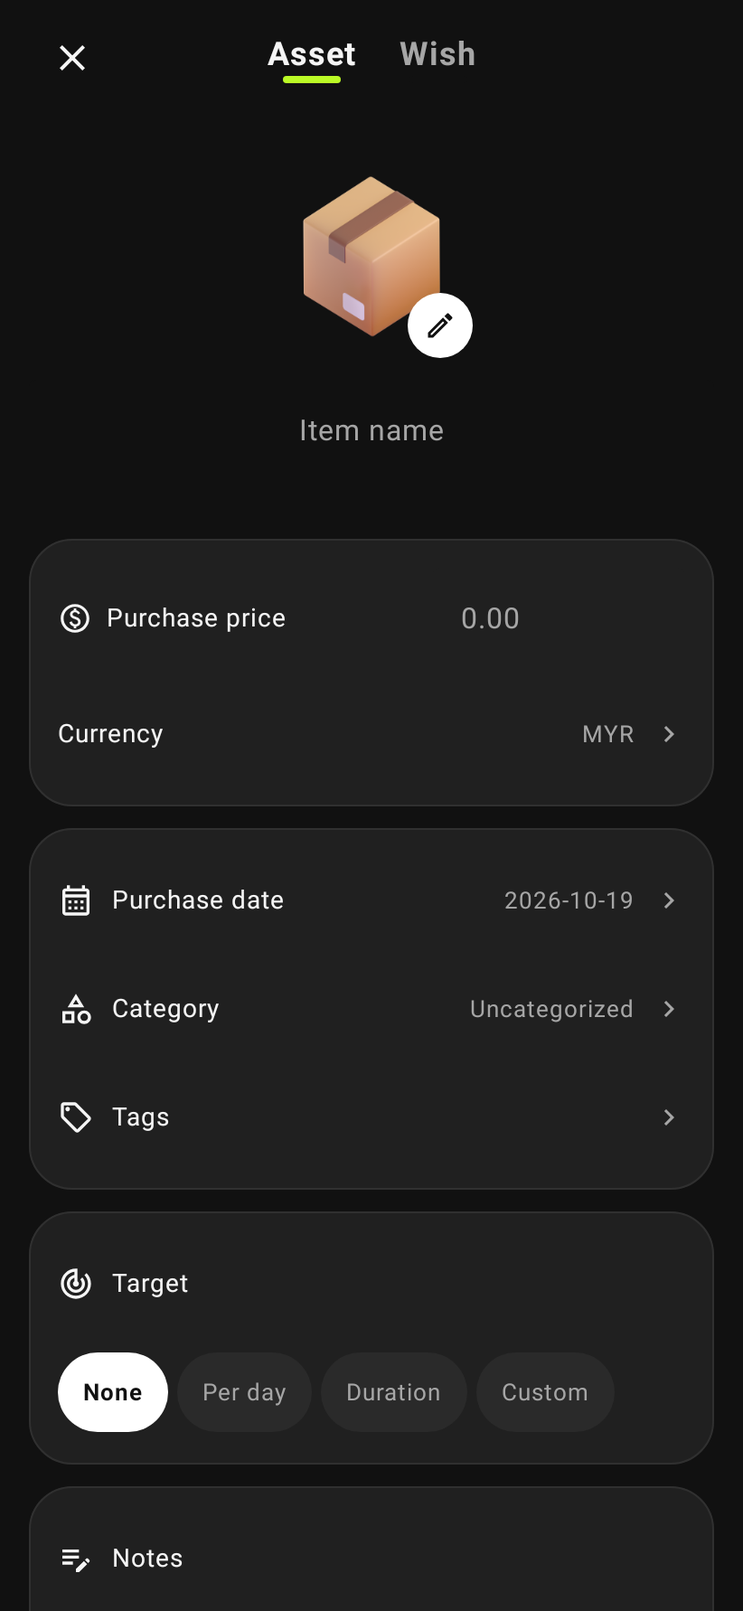
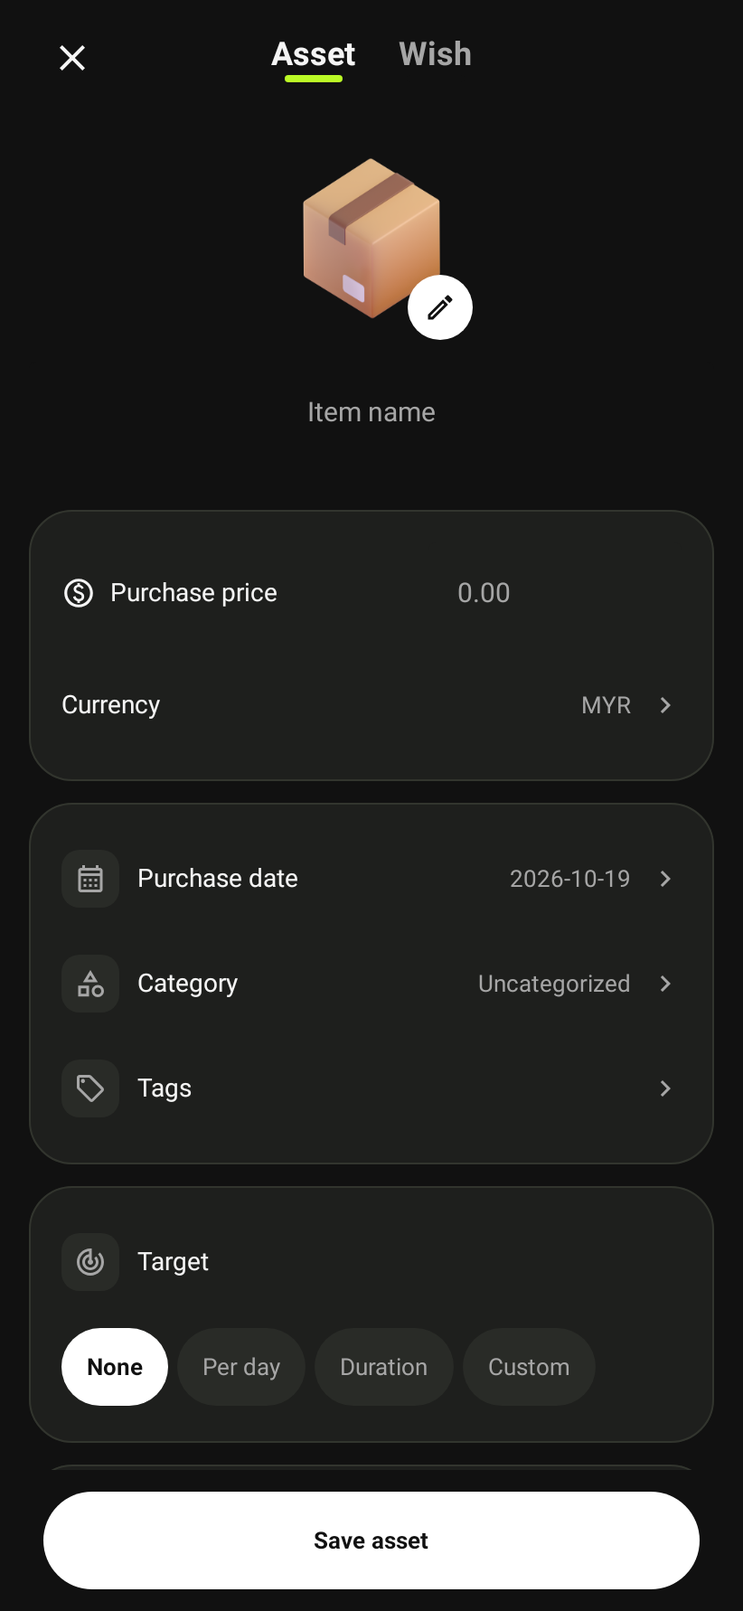
Polish all asset manager screens and pin editor save action

diff --git a/app/src/main/java/app/dayerize/ui/Components.kt b/app/src/main/java/app/dayerize/ui/Components.kt
@@ -29,13 +29,13 @@ val Lime=Color(0xFFBBFA26)
 data class DisplayOptions(val decimals:Int?=null,val grouping:Boolean=true)
 val LocalDisplayOptions=staticCompositionLocalOf { DisplayOptions() }
 @Composable fun DayerizeTheme(dark:Boolean,content:@Composable ()->Unit) {
-    val colors=if(dark) darkColorScheme(primary=Color.White,onPrimary=Color(0xFF111111),primaryContainer=Lime,onPrimaryContainer=Color.Black,secondary=Lime,onSecondary=Color.Black,background=Color(0xFF111111),onBackground=Color(0xFFF5F5F5),surface=Color(0xFF202020),onSurface=Color(0xFFF5F5F5),surfaceVariant=Color(0xFF2A2A2A),onSurfaceVariant=Color(0xFFA6A6A6),outlineVariant=Color(0xFF303030),outline=Color(0xFF666666))
+    val colors=if(dark) darkColorScheme(primary=Color.White,onPrimary=Color(0xFF111111),primaryContainer=Lime,onPrimaryContainer=Color.Black,secondary=Lime,onSecondary=Color.Black,background=Color(0xFF111111),onBackground=Color(0xFFF5F5F5),surface=Color(0xFF1E1F1D),onSurface=Color(0xFFF5F5F5),surfaceVariant=Color(0xFF292B27),onSurfaceVariant=Color(0xFFA6A6A6),outlineVariant=Color(0xFF32352E),outline=Color(0xFF666666))
     else lightColorScheme(primary=Color(0xFF151515),onPrimary=Color.White,primaryContainer=Lime,onPrimaryContainer=Color.Black,secondary=Color(0xFF527300),background=Color(0xFFF4F4F2),surface=Color.White,surfaceVariant=Color(0xFFECECE8),onSurface=Color(0xFF151515),onBackground=Color(0xFF151515),onSurfaceVariant=Color(0xFF64645F),outlineVariant=Color(0xFFE2E2DD))
-    MaterialTheme(colorScheme=colors,typography=Typography(),content=content)
+    MaterialTheme(colorScheme=colors,typography=Typography(bodyLarge=androidx.compose.ui.text.TextStyle(fontSize=15.sp,lineHeight=23.sp),bodyMedium=androidx.compose.ui.text.TextStyle(fontSize=14.sp,lineHeight=21.sp),labelLarge=androidx.compose.ui.text.TextStyle(fontSize=13.sp,fontWeight=FontWeight.Medium,letterSpacing=0.1.sp)),content=content)
 }
 @Composable fun Panel(modifier:Modifier=Modifier,content:@Composable ColumnScope.()->Unit) {
-    Surface(modifier,shape=RoundedCornerShape(24.dp),border=BorderStroke(1.dp,MaterialTheme.colorScheme.outlineVariant),color=MaterialTheme.colorScheme.surface) {
-        Column(Modifier.padding(16.dp),verticalArrangement=Arrangement.spacedBy(12.dp),content=content)
+    Surface(modifier,shape=RoundedCornerShape(24.dp),border=BorderStroke(0.7.dp,MaterialTheme.colorScheme.outlineVariant),color=MaterialTheme.colorScheme.surface) {
+        Column(Modifier.padding(18.dp),verticalArrangement=Arrangement.spacedBy(10.dp),content=content)
     }
 }
 @Composable fun Label(id:Int) { Text(stringResource(id),style=MaterialTheme.typography.labelLarge,color=MaterialTheme.colorScheme.onSurfaceVariant) }
@@ -64,14 +64,14 @@ fun statusLabel(status:Status)=when(status){Status.ACTIVE->R.string.active;Statu
     }
 }
 @Composable fun ScreenHeading(title:String,action:(@Composable ()->Unit)?=null) {
-    Row(Modifier.fillMaxWidth().padding(vertical=12.dp),verticalAlignment=Alignment.CenterVertically) {
-        Text(title,Modifier.weight(1f),fontSize=26.sp,fontWeight=FontWeight.Bold)
+    Row(Modifier.fillMaxWidth().padding(top=12.dp,bottom=4.dp),verticalAlignment=Alignment.CenterVertically) {
+        Text(title,Modifier.weight(1f),fontSize=25.sp,fontWeight=FontWeight.Bold,letterSpacing=(-0.6).sp)
         action?.invoke()
     }
 }
 @Composable fun SettingRow(label:String,value:String="",icon:ImageVector?=null,onClick:(()->Unit)?=null,trailing:(@Composable ()->Unit)?=null) {
-    Row(Modifier.fillMaxWidth().then(if(onClick!=null)Modifier.clickable(onClick=onClick) else Modifier).heightIn(min=48.dp).padding(vertical=8.dp),verticalAlignment=Alignment.CenterVertically,horizontalArrangement=Arrangement.spacedBy(10.dp)) {
-        if(icon!=null)Icon(icon,null,Modifier.size(20.dp))
+    Row(Modifier.fillMaxWidth().clip(RoundedCornerShape(12.dp)).then(if(onClick!=null)Modifier.clickable(onClick=onClick) else Modifier).heightIn(min=48.dp).padding(vertical=8.dp),verticalAlignment=Alignment.CenterVertically,horizontalArrangement=Arrangement.spacedBy(10.dp)) {
+        if(icon!=null)Box(Modifier.size(32.dp).clip(RoundedCornerShape(10.dp)).background(MaterialTheme.colorScheme.surfaceVariant),contentAlignment=Alignment.Center){Icon(icon,null,Modifier.size(18.dp),tint=MaterialTheme.colorScheme.onSurfaceVariant)}
         Text(label,Modifier.weight(1f),fontSize=14.sp)
         if(value.isNotBlank())Text(value,Modifier.widthIn(max=150.dp),color=MaterialTheme.colorScheme.onSurfaceVariant,fontSize=13.sp,maxLines=1,overflow=TextOverflow.Ellipsis)
         if(trailing!=null)trailing() else if(onClick!=null)Icon(Icons.Outlined.ChevronRight,null,Modifier.size(18.dp),tint=MaterialTheme.colorScheme.onSurfaceVariant)
@@ -89,10 +89,10 @@ fun statusLabel(status:Status)=when(status){Status.ACTIVE->R.string.active;Statu
     if(expanded)ModalBottomSheet(onDismissRequest={expanded=false},containerColor=MaterialTheme.colorScheme.surface) {
         Column(Modifier.fillMaxWidth().padding(20.dp).navigationBarsPadding()) {
             Text(stringResource(label),fontSize=22.sp,fontWeight=FontWeight.Bold)
-            OutlinedTextField(query,{query=it},modifier=Modifier.fillMaxWidth().padding(vertical=12.dp),singleLine=true,leadingIcon={Icon(Icons.Outlined.Search,null)})
+            OutlinedTextField(query,{query=it},modifier=Modifier.fillMaxWidth().padding(vertical=12.dp),shape=RoundedCornerShape(18.dp),singleLine=true,leadingIcon={Icon(Icons.Outlined.Search,null)})
             androidx.compose.foundation.lazy.LazyColumn(Modifier.heightIn(max=420.dp)) {
                 items(choices.filter { it.contains(query,true) }.size) { i->val c=choices.filter { it.contains(query,true) }[i]
-                    SettingRow(c,onClick={onSelect(c);expanded=false;query=""},trailing={if(c==value)Icon(Icons.Outlined.Check,null)})
+                    Surface(shape=RoundedCornerShape(14.dp),color=if(c==value)MaterialTheme.colorScheme.surfaceVariant else MaterialTheme.colorScheme.surface){SettingRow(c,onClick={onSelect(c);expanded=false;query=""},trailing={if(c==value)Icon(Icons.Outlined.Check,null,tint=MaterialTheme.colorScheme.secondary)})}
                 }
             }
         }

diff --git a/app/src/main/java/app/dayerize/features/editor/EditorScreen.kt b/app/src/main/java/app/dayerize/features/editor/EditorScreen.kt
@@ -76,7 +76,8 @@ import app.dayerize.images.CutoutProcessor
         busy=true;try { photo=withContext(Dispatchers.IO){val f=File(vm.store.photos,UUID.randomUUID().toString()+".png");f.outputStream().use { require(bitmap.compress(Bitmap.CompressFormat.PNG,100,it)) };f.name};originalPhoto=photo;processedPhoto=null }catch(e:Exception){vm.message.value=R.string.processing_failed}finally{busy=false}
     } }
     BackHandler { discard=true }
-    Column(Modifier.fillMaxSize().verticalScroll(rememberScrollState()).imePadding().padding(horizontal=16.dp),verticalArrangement=Arrangement.spacedBy(12.dp)) {
+    Column(Modifier.fillMaxSize().imePadding()) {
+    Column(Modifier.weight(1f).verticalScroll(rememberScrollState()).padding(horizontal=16.dp),verticalArrangement=Arrangement.spacedBy(12.dp)) {
         Box(Modifier.fillMaxWidth().padding(top=8.dp)) {
             IconButton(onClick={discard=true},modifier=Modifier.align(Alignment.CenterStart)){Icon(Icons.Outlined.Close,stringResource(R.string.back))}
             Row(Modifier.align(Alignment.Center),horizontalArrangement=Arrangement.spacedBy(24.dp)) {
@@ -89,14 +90,14 @@ import app.dayerize.images.CutoutProcessor
             }
         }
         val preview=Asset("preview","preview",name.ifBlank { "Asset" },Money(0,currency),date,icon=icon,photo=photo)
-        Box(Modifier.fillMaxWidth().padding(top=18.dp),contentAlignment=Alignment.Center) {
+        Box(Modifier.fillMaxWidth().padding(top=8.dp),contentAlignment=Alignment.Center) {
             Box(Modifier.size(112.dp)) {
                 AssetArt(preview,Modifier.fillMaxSize().padding(6.dp))
                 FilledIconButton(onClick={sheet="image"},modifier=Modifier.align(Alignment.BottomEnd).size(36.dp)){Icon(Icons.Outlined.Edit,stringResource(R.string.choose_image),Modifier.size(18.dp))}
             }
         }
         TextField(name,{name=it},placeholder={Text(stringResource(R.string.item_name),Modifier.fillMaxWidth(),textAlign=TextAlign.Center)},textStyle=LocalTextStyle.current.copy(textAlign=TextAlign.Center,fontWeight=FontWeight.Bold,fontSize=20.sp),modifier=Modifier.fillMaxWidth().testTag("asset-name"),singleLine=true,colors=TextFieldDefaults.colors(focusedContainerColor=MaterialTheme.colorScheme.background,unfocusedContainerColor=MaterialTheme.colorScheme.background,focusedIndicatorColor=MaterialTheme.colorScheme.background,unfocusedIndicatorColor=MaterialTheme.colorScheme.background))
-        Spacer(Modifier.height(8.dp))
+        Spacer(Modifier.height(2.dp))
         Panel {
             Row(verticalAlignment=Alignment.CenterVertically) {
                 Icon(Icons.Outlined.Paid,null,Modifier.size(19.dp));Text(stringResource(if(wish)R.string.budget else R.string.price),Modifier.weight(1f).padding(start=8.dp),fontSize=14.sp)
@@ -133,7 +134,11 @@ import app.dayerize.images.CutoutProcessor
                 Field(channel,{channel=it},R.string.channel);Field(warranty,{warranty=it},R.string.warranty);Field(serial,{serial=it},R.string.serial)
             }
         }
-        if(error)Text(stringResource(R.string.check_fields),color=MaterialTheme.colorScheme.error)
+        Spacer(Modifier.height(12.dp))
+    }
+    Surface(shadowElevation=8.dp,color=MaterialTheme.colorScheme.background) {
+        Column {
+        if(error)Text(stringResource(R.string.check_fields),Modifier.padding(horizontal=24.dp,vertical=4.dp),color=MaterialTheme.colorScheme.error)
         if(busy)LinearProgressIndicator(Modifier.fillMaxWidth())
         Button(onClick={
             try {
@@ -142,8 +147,9 @@ import app.dayerize.images.CutoutProcessor
                 val a=(existing ?: Asset(UUID.randomUUID().toString(),vm.state.value.config.getValue("workspace"),name,purchase,date)).copy(name=name.trim(),purchase=purchase,purchaseDate=if(wish)vm.today().toString()else date,targetDays=target,category=category.trim(),tags=tags.split(',').map(String::trim).filter(String::isNotEmpty),notes=notes,serial=serial,channel=channel,warranty=warranty,icon=icon,photo=photo,useMode=!wish&&targetMode=="custom"&&useMode,valuation=valuation,manualValue=if(valuation=="manual")Money.parse(value,currency).minor else null,residual=if(valuation=="linear")Money.parse(residual,currency).minor else 0,originalPhoto=originalPhoto,wishlist=wish,targetMode=targetMode)
                 a.validate(vm.today());busy=true;vm.save(a,onError={busy=false;error=true}){busy=false;onDone(a.id)}
             }catch(e:Exception){error=true;busy=false}
-        },enabled=!busy,modifier=Modifier.fillMaxWidth().heightIn(min=54.dp)){Text(stringResource(R.string.save_asset),fontWeight=FontWeight.Bold)}
-        Spacer(Modifier.height(16.dp))
+        },enabled=!busy,modifier=Modifier.fillMaxWidth().padding(horizontal=24.dp,vertical=12.dp).heightIn(min=54.dp)){Text(stringResource(R.string.save_asset),fontWeight=FontWeight.Bold)}
+    }
+    }
     }
     if(picker)IconPicker(onSelect={icon=it;photo=null;originalPhoto=null;processedPhoto=null;picker=false},onDismiss={picker=false})
     if(sheet.isNotBlank())ModalBottomSheet(onDismissRequest={sheet=""},containerColor=MaterialTheme.colorScheme.surface) {

diff --git a/app/src/main/java/app/dayerize/features/collection/CollectionScreen.kt b/app/src/main/java/app/dayerize/features/collection/CollectionScreen.kt
@@ -43,7 +43,7 @@ import java.math.RoundingMode
             total+=cost*rate
         };total
     }.getOrNull() }
-    LazyVerticalGrid(columns=GridCells.Fixed(if(list || wishes)1 else 2),contentPadding=PaddingValues(start=16.dp,end=16.dp,top=4.dp,bottom=110.dp),horizontalArrangement=Arrangement.spacedBy(12.dp),verticalArrangement=Arrangement.spacedBy(14.dp)) {
+    LazyVerticalGrid(columns=GridCells.Fixed(if(list || wishes)1 else 2),contentPadding=PaddingValues(start=16.dp,end=16.dp,top=4.dp,bottom=110.dp),horizontalArrangement=Arrangement.spacedBy(12.dp),verticalArrangement=Arrangement.spacedBy(12.dp)) {
         item(span={GridItemSpan(maxLineSpan)}) { ScreenHeading(if(wishes)stringResource(R.string.wishlist) else "Dayerize") { IconButton(onClick={showSearch=!showSearch}){Icon(Icons.Outlined.Search,stringResource(R.string.search))} } }
         if(showSearch)item(span={GridItemSpan(maxLineSpan)}) { OutlinedTextField(search,{search=it},placeholder={Text(stringResource(R.string.search))},modifier=Modifier.fillMaxWidth(),singleLine=true,shape=RoundedCornerShape(24.dp),leadingIcon={Icon(Icons.Outlined.Search,null)}) }
         item(span={GridItemSpan(maxLineSpan)}) { Panel(Modifier.fillMaxWidth()) {
@@ -99,16 +99,26 @@ import java.math.RoundingMode
                         OutlinedButton(onClick={onPurchase(a)}){Text(stringResource(R.string.purchase_wish),fontSize=12.sp)}
                     }
                 }
+            } else if(list)Surface(shape=RoundedCornerShape(22.dp),color=MaterialTheme.colorScheme.surface,border=BorderStroke(0.7.dp,MaterialTheme.colorScheme.outlineVariant)) {
+                Row(Modifier.fillMaxWidth().combinedClickable(onClick={onOpen(a)},onLongClick={menu=a}).padding(14.dp),verticalAlignment=Alignment.CenterVertically,horizontalArrangement=Arrangement.spacedBy(14.dp)) {
+                    AssetArt(a,Modifier.size(64.dp))
+                    Column(Modifier.weight(1f),verticalArrangement=Arrangement.spacedBy(5.dp)) {
+                        Text(a.name,fontWeight=FontWeight.SemiBold,fontSize=15.sp,maxLines=1,overflow=TextOverflow.Ellipsis)
+                        Text(displayMoney(a.purchase)+" · ${cost?.days ?: 0} "+stringResource(R.string.days),fontSize=11.sp,color=MaterialTheme.colorScheme.onSurfaceVariant)
+                        Text(formatCost(cost?.net ?: cost?.current,a.purchase.currency)+stringResource(if(a.sale==null && a.useMode)R.string.per_use else R.string.per_day),fontSize=16.sp,fontWeight=FontWeight.Bold)
+                    }
+                    Icon(Icons.Outlined.ChevronRight,null,Modifier.size(18.dp),tint=MaterialTheme.colorScheme.onSurfaceVariant)
+                }
             } else
-            Surface(shape=RoundedCornerShape(24.dp),color=MaterialTheme.colorScheme.surface,border=BorderStroke(1.dp,MaterialTheme.colorScheme.outlineVariant)) {
+            Surface(shape=RoundedCornerShape(24.dp),color=MaterialTheme.colorScheme.surface,border=BorderStroke(0.7.dp,MaterialTheme.colorScheme.outlineVariant)) {
                 Column(Modifier.combinedClickable(onClick={onOpen(a)},onLongClick={menu=a}).padding(14.dp),verticalArrangement=Arrangement.spacedBy(6.dp)) {
-                    Box(Modifier.fillMaxWidth().height(if(list)64.dp else 72.dp)) {
-                        AssetArt(a,Modifier.size(if(list)60.dp else 70.dp).align(Alignment.CenterStart))
+                    Box(Modifier.fillMaxWidth().height(if(list)64.dp else 124.dp)) {
+                        AssetArt(a,Modifier.size(if(list)60.dp else 90.dp).align(Alignment.BottomCenter))
                         if(!wishes)Box(Modifier.align(Alignment.TopEnd)){StatusBadge(a.status)}
                     }
-                    Text(a.name,fontWeight=FontWeight.Medium,fontSize=15.sp,maxLines=1,overflow=TextOverflow.Ellipsis)
+                    Text(a.name,fontWeight=FontWeight.SemiBold,fontSize=15.sp,maxLines=1,overflow=TextOverflow.Ellipsis)
                     Text(displayMoney(a.purchase)+(if(!wishes)" · ${cost?.days ?: 0} "+stringResource(R.string.days) else ""),fontSize=11.sp,color=MaterialTheme.colorScheme.onSurfaceVariant,maxLines=1,overflow=TextOverflow.Ellipsis)
-                    Text(if(wishes)stringResource(R.string.view) else formatCost(cost?.net ?: cost?.current,a.purchase.currency)+stringResource(if(a.sale==null && a.useMode)R.string.per_use else R.string.per_day),Modifier.padding(top=14.dp),fontWeight=FontWeight.Bold,fontSize=15.sp)
+                    Text(if(wishes)stringResource(R.string.view) else formatCost(cost?.net ?: cost?.current,a.purchase.currency)+stringResource(if(a.sale==null && a.useMode)R.string.per_use else R.string.per_day),Modifier.padding(top=10.dp),fontWeight=FontWeight.Bold,fontSize=17.sp)
                 }
             }
         }

diff --git a/app/src/main/java/app/dayerize/features/detail/DetailScreen.kt b/app/src/main/java/app/dayerize/features/detail/DetailScreen.kt
@@ -31,7 +31,7 @@ import java.time.LocalDate
         }
         AssetArt(a,Modifier.fillMaxWidth().height(180.dp))
         Row(Modifier.fillMaxWidth(),verticalAlignment=Alignment.CenterVertically,horizontalArrangement=Arrangement.spacedBy(12.dp)) {
-            Text(a.name,Modifier.weight(1f),fontSize=24.sp,fontWeight=FontWeight.Bold)
+            Text(a.name,Modifier.weight(1f),fontSize=23.sp,fontWeight=FontWeight.Bold,letterSpacing=(-0.4).sp)
             if(!a.wishlist)StatusBadge(a.status)
         }
         if(a.wishlist) {
@@ -41,7 +41,7 @@ import java.time.LocalDate
         } else {
             Panel(Modifier.fillMaxWidth()) {
                 Label(if(a.sale!=null)R.string.net_cost else R.string.daily_total)
-                Text(formatCost(if(a.sale!=null)cost.net else cost.current,a.purchase.currency)+stringResource(if(a.sale==null && a.useMode)R.string.per_use else R.string.per_day),fontSize=30.sp,fontWeight=FontWeight.Bold)
+                Text(formatCost(if(a.sale!=null)cost.net else cost.current,a.purchase.currency)+stringResource(if(a.sale==null && a.useMode)R.string.per_use else R.string.per_day),fontSize=32.sp,fontWeight=FontWeight.Bold,letterSpacing=(-0.8).sp)
                 if(a.sale!=null){Label(R.string.daily_cost);Text(formatCost(cost.current,a.purchase.currency)+stringResource(if(a.useMode)R.string.per_use else R.string.per_day))}
                 Row(Modifier.fillMaxWidth(),horizontalArrangement=Arrangement.SpaceBetween) {
                     Column{Text("${cost.days}",fontSize=20.sp,fontWeight=FontWeight.Bold);Label(R.string.held_days)}
@@ -67,9 +67,9 @@ import java.time.LocalDate
         }
         Button(onClick=onEdit,modifier=Modifier.fillMaxWidth().heightIn(min=52.dp)){Text(stringResource(R.string.edit))}
         if(!a.wishlist)Row(horizontalArrangement=Arrangement.spacedBy(10.dp)) {
-            if(a.status==Status.ACTIVE)OutlinedButton(onClick={action="retire"},modifier=Modifier.weight(1f)){Text(stringResource(R.string.retire))}
+            if(a.status==Status.ACTIVE)OutlinedButton(onClick={action="retire"},modifier=Modifier.weight(1f).heightIn(min=48.dp)){Text(stringResource(R.string.retire))}
             if(a.status==Status.RETIRED)OutlinedButton(onClick={action="reactivate"},modifier=Modifier.weight(1f)){Text(stringResource(R.string.reactivate))}
-            if(a.sale==null)OutlinedButton(onClick={action="sell"},modifier=Modifier.weight(1f)){Text(stringResource(R.string.resell))}
+            if(a.sale==null)OutlinedButton(onClick={action="sell"},modifier=Modifier.weight(1f).heightIn(min=48.dp)){Text(stringResource(R.string.resell))}
         }
         TextButton(onClick={action="delete"},modifier=Modifier.align(Alignment.CenterHorizontally)){Text(stringResource(R.string.delete),color=MaterialTheme.colorScheme.error)}
     }

diff --git a/app/src/main/java/app/dayerize/features/editor/IconPicker.kt b/app/src/main/java/app/dayerize/features/editor/IconPicker.kt
@@ -24,7 +24,8 @@ import app.dayerize.ui.*
     val ctx=LocalContext.current
     val catalog=remember { val a=JSONArray(ctx.assets.open("icons.json").bufferedReader().use { it.readText() }); (0 until a.length()).map { a.getJSONObject(it).let { o->o.getString("id") to o.getString("name") } } }
     var query by rememberSaveable { mutableStateOf("") };var style by rememberSaveable { mutableStateOf("3d") }
-    val visible=remember(query){catalog.filter { it.second.contains(query,true) }}
+    val preferred=remember { listOf("mobile_phone","laptop","headphone","camera","video_camera","desktop_computer","watch","television","battery","electric_plug","automobile","bicycle","motor_scooter","handbag","backpack","running_shoe","ring","gem_stone","couch_and_lamp","chair","bed","refrigerator","package") }
+    val visible=remember(query){catalog.filter { it.second.contains(query,true) }.sortedBy { preferred.indexOf(it.first).let { rank->if(rank<0)Int.MAX_VALUE else rank } }}
     Dialog(onDismissRequest=onDismiss,properties=DialogProperties(usePlatformDefaultWidth=false)) {
         Surface(Modifier.fillMaxSize(),color=MaterialTheme.colorScheme.background) { Column(Modifier.systemBarsPadding().padding(16.dp)) {
             Row(verticalAlignment=Alignment.CenterVertically) {
@@ -40,8 +41,8 @@ import app.dayerize.ui.*
             if(visible.isEmpty())Text(stringResource(R.string.no_results))
             LazyVerticalGrid(columns=GridCells.Adaptive(56.dp),modifier=Modifier.weight(1f),horizontalArrangement=Arrangement.spacedBy(10.dp),verticalArrangement=Arrangement.spacedBy(10.dp)) {
                 items(visible,key={it.first}) { (id,name)->
-                    Surface(onClick={onSelect("$id:$style")},shape=RoundedCornerShape(16.dp),color=MaterialTheme.colorScheme.surface) {
-                        AsyncImage(model="file:///android_asset/icons/${id}_${style}.${if(style=="3d")"png" else "webp"}",contentDescription=name,modifier=Modifier.aspectRatio(1f).padding(8.dp))
+                    Surface(onClick={onSelect("$id:$style")},shape=RoundedCornerShape(18.dp),border=BorderStroke(0.7.dp,MaterialTheme.colorScheme.outlineVariant),color=MaterialTheme.colorScheme.surface) {
+                        AsyncImage(model="file:///android_asset/icons/${id}_${style}.${if(style=="3d")"png" else "webp"}",contentDescription=name,modifier=Modifier.aspectRatio(1f).padding(7.dp))
                     }
                 }
             }

diff --git a/app/src/test/java/app/dayerize/RedesignFlowTest.kt b/app/src/test/java/app/dayerize/RedesignFlowTest.kt
@@ -18,7 +18,7 @@ class RedesignFlowTest {
         ui.onNodeWithText("Legacy camera").performClick()
         ui.onNodeWithContentDescription("Edit").performClick()
         ui.onNodeWithTag("asset-name").performTextReplacement("Legacy camera edited")
-        ui.onNodeWithText("Save asset").performScrollTo().performClick()
+        ui.onNodeWithText("Save asset").assertIsDisplayed().performClick()
         ui.waitUntil(10000){vm.state.value.assets.any{it.name=="Legacy camera edited"}}
         org.junit.Assert.assertTrue(vm.state.value.assets.single{it.id=="legacy"}.useMode)
     }
@@ -32,7 +32,7 @@ class RedesignFlowTest {
         ui.onNodeWithText("Daily camera").performClick()
         ui.onNodeWithContentDescription("Edit").performClick()
         ui.onNodeWithTag("asset-name").performTextReplacement("Daily camera edited")
-        ui.onNodeWithText("Save asset").performScrollTo().performClick()
+        ui.onNodeWithText("Save asset").assertIsDisplayed().performClick()
         ui.waitUntil(10000){vm.state.value.assets.any{it.name=="Daily camera edited"}}
         org.junit.Assert.assertEquals(334,vm.state.value.assets.single{it.id=="daily"}.targetDays)
     }
@@ -42,10 +42,10 @@ class RedesignFlowTest {
         ui.onNodeWithContentDescription("Add asset").performClick()
         ui.onNodeWithTag("asset-name").performTextInput("Wish camera")
         ui.onNodeWithTag("asset-price").performTextInput("123.45")
-        ui.onNodeWithText("Save asset").performScrollTo().performClick()
+        ui.onNodeWithText("Save asset").assertIsDisplayed().performClick()
         ui.waitUntil(10000) { ui.onAllNodesWithText("Mark as purchased").fetchSemanticsNodes().isNotEmpty() }
         ui.onNodeWithText("Mark as purchased").performClick()
-        ui.onNodeWithText("Save asset").performScrollTo().performClick()
+        ui.onNodeWithText("Save asset").assertIsDisplayed().performClick()
         val vm=androidx.lifecycle.ViewModelProvider(ui.activity)[AppViewModel::class.java]
         ui.waitUntil(10000) { vm.state.value.assets.any { it.name=="Wish camera" && !it.wishlist } }
         org.junit.Assert.assertEquals(12345L,vm.state.value.assets.single{it.name=="Wish camera"}.purchase.minor)

diff --git a/app/src/main/java/app/dayerize/ui/AppRoot.kt b/app/src/main/java/app/dayerize/ui/AppRoot.kt
@@ -71,12 +71,12 @@ import java.time.LocalDate
                 Surface(Modifier.weight(1f),shape=RoundedCornerShape(40.dp),color=MaterialTheme.colorScheme.surface,border=BorderStroke(1.dp,MaterialTheme.colorScheme.outlineVariant),shadowElevation=8.dp) {
                     Row(Modifier.padding(horizontal=8.dp,vertical=8.dp),horizontalArrangement=Arrangement.SpaceEvenly) {
                         listOf(R.string.collection to Icons.Outlined.Home,R.string.wishlist to Icons.Outlined.FavoriteBorder,R.string.analytics to Icons.Outlined.PieChart,R.string.settings to Icons.Outlined.Settings).forEachIndexed { i,(label,icon)->
-                            IconButton(onClick={tab=i}) { Icon(icon,stringResource(label),tint=if(tab==i)MaterialTheme.colorScheme.onSurface else MaterialTheme.colorScheme.onSurfaceVariant.copy(alpha=.55f)) }
+                            IconButton(onClick={tab=i},modifier=Modifier.clip(RoundedCornerShape(18.dp)).background(if(tab==i)MaterialTheme.colorScheme.surfaceVariant else androidx.compose.ui.graphics.Color.Transparent)) { Icon(icon,stringResource(label),tint=if(tab==i)MaterialTheme.colorScheme.onSurface else MaterialTheme.colorScheme.onSurfaceVariant.copy(alpha=.55f)) }
                         }
                     }
                 }
-                Surface(onClick={selected=null;acquiring=false;editing=true},shape=RoundedCornerShape(50),color=MaterialTheme.colorScheme.surface,border=BorderStroke(1.dp,MaterialTheme.colorScheme.outlineVariant)) {
-                    Box(Modifier.size(64.dp),contentAlignment=Alignment.Center) { Icon(Icons.Outlined.Add,stringResource(R.string.add_asset),Modifier.size(30.dp)) }
+                Surface(onClick={selected=null;acquiring=false;editing=true},shape=RoundedCornerShape(50),color=MaterialTheme.colorScheme.primaryContainer,contentColor=MaterialTheme.colorScheme.onPrimaryContainer,border=BorderStroke(1.dp,MaterialTheme.colorScheme.outlineVariant)) {
+                    Box(Modifier.size(64.dp),contentAlignment=Alignment.Center) { Icon(Icons.Outlined.Add,stringResource(R.string.add_asset),Modifier.size(30.dp),tint=androidx.compose.ui.graphics.Color.Black) }
                 }
             }
         } }

diff --git a/app/src/main/java/app/dayerize/features/settings/SettingsScreen.kt b/app/src/main/java/app/dayerize/features/settings/SettingsScreen.kt
@@ -21,7 +21,7 @@ import java.math.BigDecimal
 
 @Composable fun SettingsScreen(state:AppState,vm:AppViewModel,onExport:()->Unit,onRestore:()->Unit) {
     var rates by remember { mutableStateOf(false) };var categories by remember { mutableStateOf(false) };var licenses by remember { mutableStateOf(false) };var tagDialog by remember { mutableStateOf(false) }
-    Column(Modifier.fillMaxSize().verticalScroll(rememberScrollState()).padding(start=16.dp,end=16.dp,bottom=110.dp),verticalArrangement=Arrangement.spacedBy(16.dp)) {
+    Column(Modifier.fillMaxSize().verticalScroll(rememberScrollState()).padding(start=16.dp,end=16.dp,bottom=110.dp),verticalArrangement=Arrangement.spacedBy(12.dp)) {
         ScreenHeading(stringResource(R.string.settings))
         Panel(Modifier.fillMaxWidth()) {
             Row(verticalAlignment=Alignment.CenterVertically,horizontalArrangement=Arrangement.spacedBy(12.dp)) {

diff --git a/app/src/main/java/app/dayerize/features/analytics/AnalyticsScreen.kt b/app/src/main/java/app/dayerize/features/analytics/AnalyticsScreen.kt
@@ -25,7 +25,7 @@ import java.time.*
     }
     val groups=owned.filter { it.sale==null }.groupBy { it.category }.mapValues { (_,assets)->runCatching{summarize(assets,state.config["currency"]?:"MYR",vm.fxRates(),today)}.getOrNull() }
     val shades=listOf(Lime,Color(0xFF969B88),Color(0xFF687052),Color(0xFF45493D))
-    Column(Modifier.fillMaxSize().verticalScroll(rememberScrollState()).padding(start=16.dp,end=16.dp,bottom=110.dp),verticalArrangement=Arrangement.spacedBy(16.dp)) {
+    Column(Modifier.fillMaxSize().verticalScroll(rememberScrollState()).padding(start=16.dp,end=16.dp,bottom=110.dp),verticalArrangement=Arrangement.spacedBy(12.dp)) {
         ScreenHeading(stringResource(R.string.analytics))
         Panel(Modifier.fillMaxWidth()) {
             Label(R.string.estimated_value);Text(summary?.let { displayMoney(it.total) } ?: "—",fontSize=34.sp,fontWeight=FontWeight.Bold)

diff --git a/app/src/test/java/app/dayerize/RedesignRenderTest.kt b/app/src/test/java/app/dayerize/RedesignRenderTest.kt
@@ -70,5 +70,13 @@ class RedesignRenderTest {
         shot("05-analytics")
         ui.onNodeWithContentDescription("Settings").performClick()
         shot("06-settings")
+        ui.onNodeWithText("Language").performScrollTo()
+        shot("12-settings-appearance")
+        ui.onNodeWithText("Light").performScrollTo().performClick()
+        ui.waitUntil(10000){vm.state.value.config["theme"]=="light"}
+        ui.onNodeWithContentDescription("Collection").performClick()
+        shot("13-light-collection")
+        ui.onNodeWithContentDescription("Grid / list").performClick()
+        shot("14-list")
     }
 }

diff --git a/app/src/test/java/app/dayerize/LargeTextChineseTest.kt b/app/src/test/java/app/dayerize/LargeTextChineseTest.kt
@@ -39,7 +39,7 @@ class LargeTextChineseTest {
         shot("09-zh-large-editor")
         ui.onNodeWithTag("asset-name").performTextInput("测试相机")
         ui.onNodeWithTag("asset-price").performScrollTo().performTextInput("123.45")
-        ui.onNodeWithText("保存资产").performScrollTo().performClick()
+        ui.onNodeWithText("保存资产").assertIsDisplayed().performClick()
         ui.waitUntil(10000){vm.state.value.assets.any{it.name=="测试相机"}}
         org.junit.Assert.assertEquals(12345L,vm.state.value.assets.single{it.name=="测试相机"}.purchase.minor)
     }

diff --git a/app/src/test/java/app/dayerize/AssetFlowTest.kt b/app/src/test/java/app/dayerize/AssetFlowTest.kt
@@ -13,7 +13,7 @@ class AssetFlowTest {
         ui.onNodeWithContentDescription("Add asset").performClick()
         ui.onNodeWithTag("asset-name").performTextInput("Test camera")
         ui.onNodeWithTag("asset-price").performTextInput("123.45")
-        ui.onNodeWithText("Save asset").performScrollTo().performClick()
+        ui.onNodeWithText("Save asset").assertIsDisplayed().performClick()
         ui.waitUntil(10000) { ui.onAllNodesWithText("Test camera").fetchSemanticsNodes().isNotEmpty() }
         ui.onNodeWithText("Test camera").assertExists()
     }
